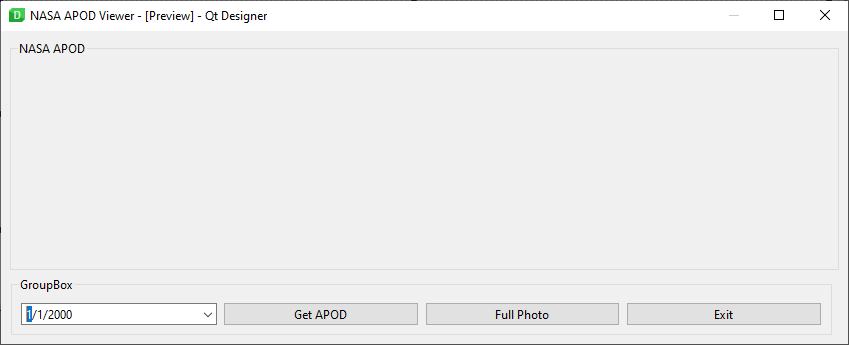
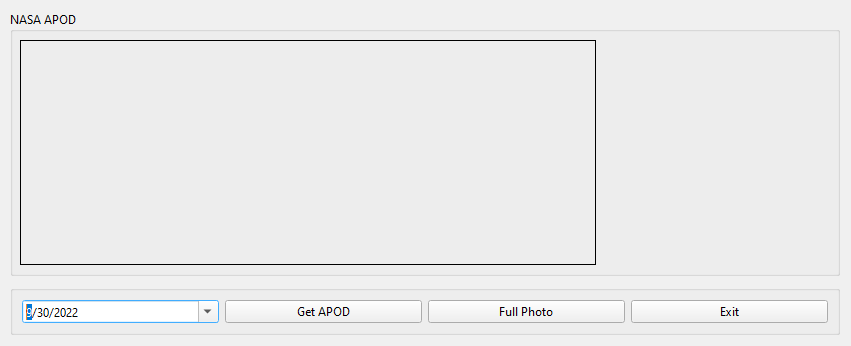
Update V1

diff --git a/Code V1/apod_program.py b/Code V1/apod_program.py
@@ -8,12 +8,14 @@
 """
 
 import sys
+import datetime
+# pip install pyside6
 from PySide6.QtCore import Qt
 # from PySide6 import QtGui
 from PySide6.QtWidgets import QApplication, QMainWindow
 # Import gui py file created by QT Designer
 from main_ui import Ui_MainWindow
-# Import controller class that does all the work.
+# Import controller class that does all the work
 from apod_class import APODClass
 
 
@@ -22,37 +24,43 @@ class APODViewer(QMainWindow, Ui_MainWindow):
     def __init__(self):
         super(APODViewer, self).__init__()
 
-        """ Initialize PySide6 QT GUI"""
+        """Initialize PySide6 QT GUI"""
         # Create the GUI
         self.setupUi(self)
         # Remove title bar
         self.setWindowFlag(Qt.FramelessWindowHint)
-
+        # Get today's date
+        display_date = datetime.date.today()
+        # Set dateEdit to today's date
+        self.dateEdit.setDate(display_date)
+        # Create apod object
         self.apod_class = APODClass()
 
         # Connect the clicked event/signal to the set_weather event handler/slot
-        self.btn_get_data.clicked.connect(self.display_data)
-        self.btn_get_data.setShortcut("Return")
+        # Display apod with button or return/enter keys
+        self.btn_display_apod.clicked.connect(self.display_data)
+        self.btn_display_apod.setShortcut("Return")
+        self.btn_display_apod.setShortcut("Enter")
 
-        # Exit the program
+        # Exit the program with button or escape key
         self.btn_exit.clicked.connect(self.close)
         self.btn_exit.setShortcut("Esc")
 
-#--------------------- GET WEATHER -------------------#
+#--------------------- DISPLAY APOD -------------------------------------------#
     def display_data(self):
-        """ Get and display weather on form """
+        """Get and display APOD description on form label"""
         # self.apod_class.get_data()
         self.lbl_description.setText(
             f"{self.apod_class.get_data()}")
 
-#-------- OVERRIDE MOUSE EVENTS TO MOVE PROGRAM WINDOW -------------#
+#------------ OVERRIDE MOUSE EVENTS TO MOVE PROGRAM WINDOW --------------------#
     def mousePressEvent(self, event):
-        """ Override the mousePressEvent """
+        """Override the mousePressEvent"""
         # Store the current position of the mouse in previous position
         self.previous_pos = event.globalPosition()
 
     def mouseMoveEvent(self, event):
-        """ Override the mouseMoveEvent """
+        """Override the mouseMoveEvent"""
         # Subtract the previous position from the current position
         delta = event.globalPosition() - self.previous_pos
         # Add the delta calculation to the current position
@@ -62,19 +70,17 @@ class APODViewer(QMainWindow, Ui_MainWindow):
         # self._drag_active = True
 
     def mouseReleaseEvent(self, event):
-        """ Override the mouseReleaseEvent """
+        """Override the mouseReleaseEvent"""
         pass
         # if self._drag_active:
         #     self._drag_active = False
 
 
-#--------------------- START APPLICATION -------------------#
+#-------------------------- START APPLICATION ---------------------------------#
 # Create application object
 apod_viewer = QApplication(sys.argv)
 # Set a QT style
 apod_viewer.setStyle('Fusion')
-# Set colors to darkPalette, from external py file
-#    cat_fact.setPalette(dark_palette.darkPalette)
 # Create program object
 window = APODViewer()
 # Make program visible

diff --git a/Code V1/ui_main_window.py b/Code V1/ui_main_window.py
@@ -56,10 +56,10 @@ class Ui_MainWindow(object):
 
         self.horizontalLayout.addWidget(self.dateEdit)
 
-        self.btn_display_apod = QPushButton(self.groupBox)
-        self.btn_display_apod.setObjectName(u"btn_get_data")
+        self.btn_get_data = QPushButton(self.groupBox)
+        self.btn_get_data.setObjectName(u"btn_get_data")
 
-        self.horizontalLayout.addWidget(self.btn_display_apod)
+        self.horizontalLayout.addWidget(self.btn_get_data)
 
         self.btn_full_photo = QPushButton(self.groupBox)
         self.btn_full_photo.setObjectName(u"btn_full_photo")
@@ -84,7 +84,7 @@ class Ui_MainWindow(object):
         self.lbl_description.setText("")
         self.lbl_thumbnail.setText("")
         self.groupBox.setTitle("")
-        self.btn_display_apod.setText(QCoreApplication.translate("MainWindow", u"Get APOD", None))
+        self.btn_get_data.setText(QCoreApplication.translate("MainWindow", u"Get APOD", None))
         self.btn_full_photo.setText(QCoreApplication.translate("MainWindow", u"Full Photo", None))
         self.btn_exit.setText(QCoreApplication.translate("MainWindow", u"Exit", None))
     # retranslateUi

diff --git a/Code V1/apod_class.py b/Code V1/apod_class.py
@@ -48,14 +48,14 @@ class APODClass:
 
                 # Display the status code
                 print(
-                    f'\nThe status code for this API request is {response.status_code} \n')
+                    f'\nAPI request status code: {response.status_code} \n')
 
                 # Display the raw JSON data from the API
-                print('The raw data from the API:')
+                print("API raw data:")
                 print(response.text)
 
                 # Display the Python dictionary
-                print('\nThe JSON data converted to a Python dictionary:')
+                print('\nJSON data converted to a Python dictionary:')
 
             return (data.get("explanation"))
 

diff --git a/README.md b/README.md
@@ -13,10 +13,10 @@ Example project for Intro to Computer Science 1 Think Aloud individual project.
 - Calendar widget chooses that days APOD
 
 ## Version History
-- (09-27-22) V1 Connect to NASA APOD API. Retrieve and display current date APOD description.
+- (09-27-22) V1 Connect to NASA APOD API. Retrieve and display current APOD description.
 
 ## UI Design
-First GUI prototype
+V1 GUI
 
 ![](/images/gui_design_1.png)
 
